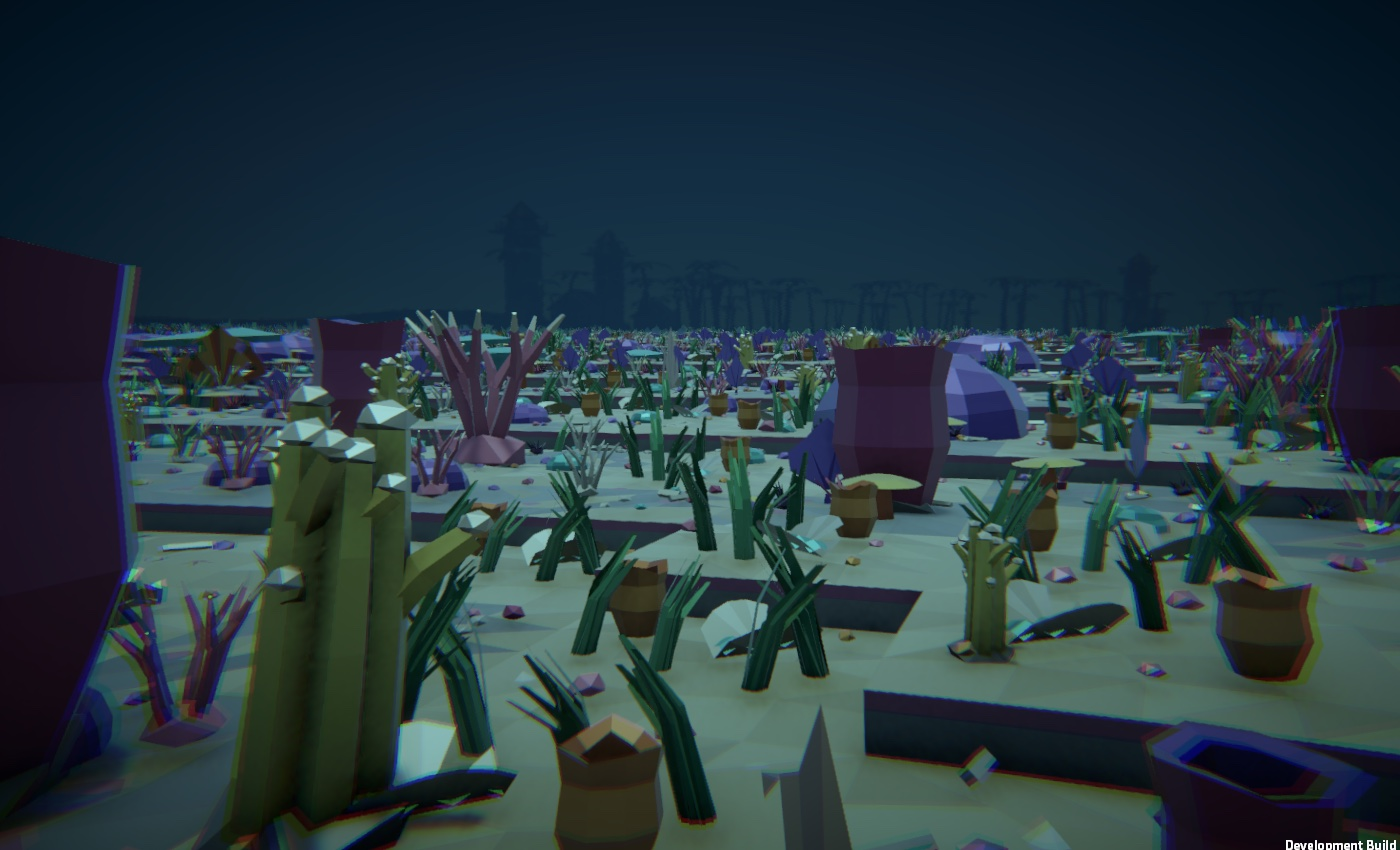
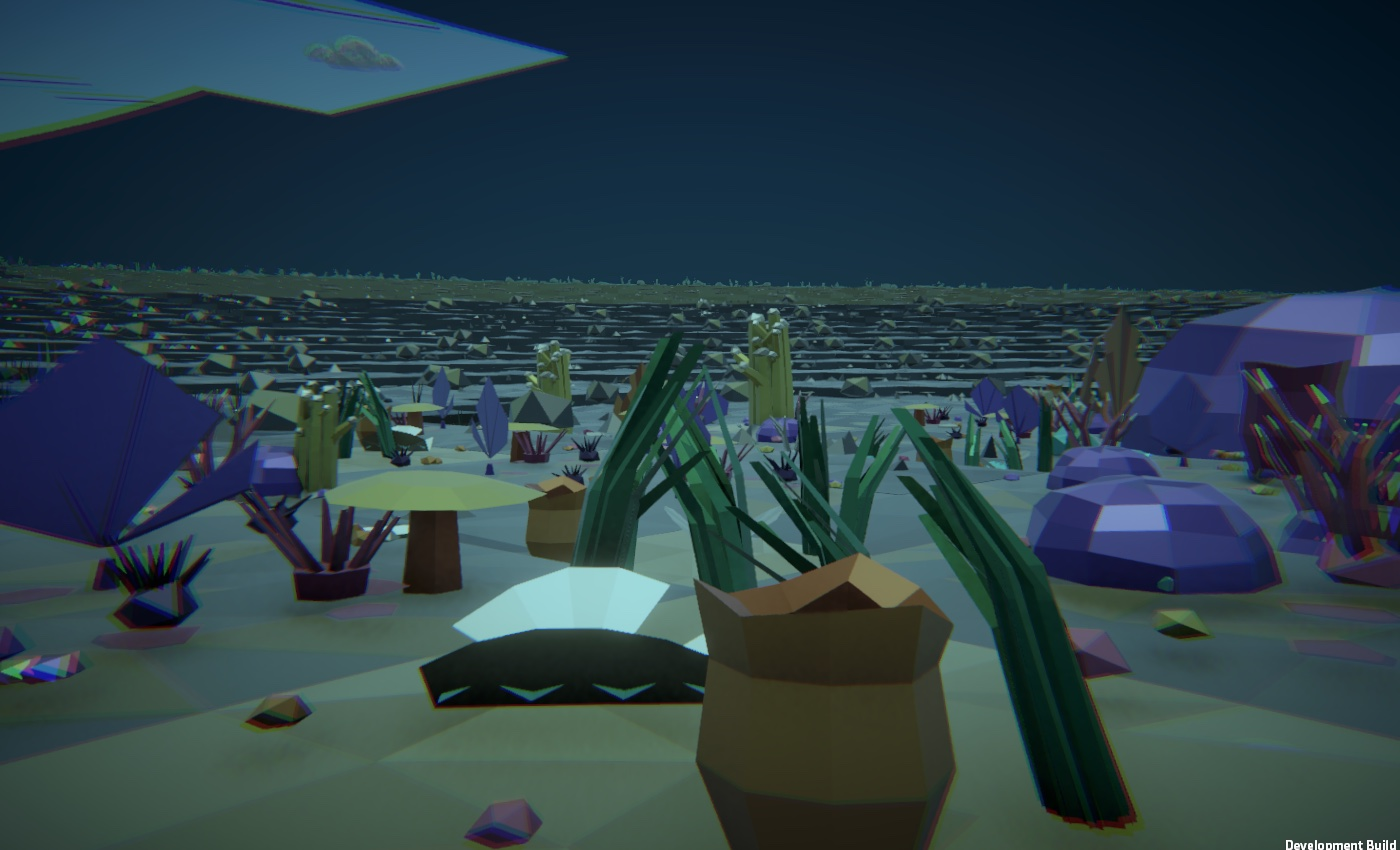
Reefs go out into deeper water, and the sea gets a floor

diff --git a/Assets/Scripts/World/Regions.cs b/Assets/Scripts/World/Regions.cs
@@ -207,7 +207,7 @@ public static class Regions
         int span = ChunksAcross * WorldGrid.TilesPerChunk;
 
         float relief = 0f;
-        int wet = 0, snowy = 0, samples = 0;
+        int wet = 0, snowy = 0, deep = 0, samples = 0;
 
         for (int x = 0; x < span; x += 12)
         for (int z = 0; z < span; z += 12)
@@ -218,6 +218,7 @@ public static class Regions
             relief += WorldHeight.HeightAt(tileX, tileZ, worldSeed) / WorldHeight.MaxRelief;
 
             if (WaterSurface.IsUnderwater(tileX, tileZ, worldSeed)) wet++;
+            if (WaterSurface.Level - WorldHeight.SurfaceY(tileX, tileZ, worldSeed) >= Chunk.ReefDepth) deep++;
             if (SnowCover.SnowByHeight(tileX, tileZ, worldSeed)) snowy++;
 
             samples++;
@@ -226,6 +227,7 @@ public static class Regions
         relief /= Mathf.Max(1, samples);
 
         float wetShare = wet / (float)Mathf.Max(1, samples);
+        float deepShare = deep / (float)Mathf.Max(1, samples);
         float snowShare = snowy / (float)Mathf.Max(1, samples);
 
         // Ordered by how much a feature dominates the impression of a place:
@@ -233,12 +235,16 @@ public static class Regions
         // Water names were going to nearly a quarter of regions when only
         // about a twentieth of the ground is actually under water, so a region
         // has to be properly wet before it is named for it.
-        // A reef is warm shallow sea, so it is asked of the wettest regions
-        // before they are named for their water: low ground, no snow near it,
-        // and only one in four, since a coast of nothing but coral is a coast
-        // with nothing to find.
+        // A reef is asked of the wettest regions before they are named for
+        // their water. It wants low warm ground with no snow near it, and it
+        // wants water with a middle to it: a reef needs somewhere the coral can
+        // stand without standing out of the top of the sea, so a region whose
+        // water is all shin-deep is left as plain water. One in five of those
+        // that qualify, since a coast of nothing but coral is a coast with
+        // nothing to find.
         if (wetShare > 0.22f)
-            return relief < 0.30f && snowShare <= 0f && Hash(cell.x, cell.y, worldSeed + 5309) % 4 == 0
+            return relief < 0.30f && snowShare <= 0f && deepShare > 0.10f
+                && Hash(cell.x, cell.y, worldSeed + 5309) % 5 == 0
                  ? Character.Reef : Character.Water;
         if (snowShare > 0.16f) return Character.Peaks;
 

diff --git a/Assets/Scripts/World/WorldHeight.cs b/Assets/Scripts/World/WorldHeight.cs
@@ -50,6 +50,22 @@ public static class WorldHeight
     private const float HillScale = 0.011f;
     private const float HillAmplitude = 10.0f;
 
+    /// <summary>
+    /// How far the sea floor is pulled below where the land would have put it,
+    /// at the middle of a basin. Without this the water is a film: the ground
+    /// stops at the base plane, the surface is four and a half above it, and
+    /// half of everything under water is less than a metre deep -- so anything
+    /// standing on the bottom stands out of the top of it.
+    ///
+    /// The pull is nought at the waterline and greatest where the land was
+    /// lowest, so no coast moves and no dry ground changes at all: it is only
+    /// the bottom of the sea that drops away.
+    /// </summary>
+    private const float SeaFloorDrop = 2.0f;
+
+    /// <summary>The height the land is at when the water's edge is there.</summary>
+    public const float ShoreHeight = 4.5f;
+
     /// <summary>Terrain height above the base plane, in world units.</summary>
     public static float HeightAt(int tileX, int tileZ, int worldSeed)
     {
@@ -64,13 +80,22 @@ public static class WorldHeight
         float ridges = RidgedFbm(tileX * RidgeScale, tileZ * RidgeScale, o + 91f, 4);
         float hills = Fbm(tileX * HillScale, tileZ * HillScale, o + 311f, 2);
 
-        return mountainMask * ridges * MaxRelief + hills * HillAmplitude;
+        float ground = mountainMask * ridges * MaxRelief + hills * HillAmplitude;
+
+        if (ground >= ShoreHeight) return ground;
+
+        // Smoothed at both ends, so the slope into the deep does not jump at
+        // the shoreline and the floor of the basin comes out flat.
+        float under = Mathf.SmoothStep(0f, 1f, Mathf.InverseLerp(ShoreHeight, 0f, ground));
+
+        return ground - under * SeaFloorDrop;
     }
 
     /// <summary>The terrace a tile sits on.</summary>
     public static int TerraceAt(int tileX, int tileZ, int worldSeed)
     {
-        return Mathf.Max(0, Mathf.FloorToInt(HeightAt(tileX, tileZ, worldSeed) / StepHeight));
+        // No floor under it any more: the sea bed goes below the base plane.
+        return Mathf.FloorToInt(HeightAt(tileX, tileZ, worldSeed) / StepHeight);
     }
 
     /// <summary>World Y of a tile's walking surface.</summary>

diff --git a/Assets/Scripts/World/Chunk.cs b/Assets/Scripts/World/Chunk.cs
@@ -45,6 +45,13 @@ public class Chunk
     /// <summary>Depth past which a lake bed is rock rather than sand.</summary>
     private const float DeepWater = 1.6f;
 
+    /// <summary>
+    /// How much water a reef wants over it. Under this the floor is left sand:
+    /// the wash bares anything shallower than about two thirds of a metre, and
+    /// coral standing in less than this comes out of the top of the water.
+    /// </summary>
+    public const float ReefDepth = 1.0f;
+
     /// <summary>And how far above the water the sand carries on up the shore.</summary>
     private const float BeachHeight = 0.7f;
     private const float BlendNoiseScale = 0.09f;
@@ -152,7 +159,7 @@ public class Chunk
                 // coral in ankle-deep water reads as a flooded field.
                 category = underSnow ? StoneCategory
                          : body != WaterSurface.Body.Beach ? MarshCategory
-                         : character == Regions.Character.Reef ? ReefCategory
+                         : character == Regions.Character.Reef && underBy >= ReefDepth ? ReefCategory
                          : underBy >= DeepWater ? StoneCategory
                          : BeachCategory;
             }

diff --git a/Assets/Scripts/World/Undergrowth.cs b/Assets/Scripts/World/Undergrowth.cs
@@ -318,7 +318,7 @@ public class Undergrowth : MonoBehaviour
                 // how deep the water is and never allowed to reach the top of
                 // it: coral standing proud of the sea would read as a rock.
                 if (character == Regions.Character.Reef && flora.Corals != null && flora.Corals.Length > 0
-                    && WaterSurface.BodyAt(gx, gz, seed) == WaterSurface.Body.Beach)
+                    && deep >= Chunk.ReefDepth && WaterSurface.BodyAt(gx, gz, seed) == WaterSurface.Body.Beach)
                 {
                     if (Hash(gx, gz, seed + 7717) % 100 >= 22) continue;
 

diff --git a/docs/HANDBOOK.md b/docs/HANDBOOK.md
@@ -834,7 +834,9 @@ so the assets keep their GUIDs and the library's list needs no editing.
 
 A reef is not a country of its own so much as a stretch of sea that happens to
 be coral, so `Regions.Character.Reef` is a wet region caught before it is named
-for its water: `wetShare > 0.22`, low ground, no snow, one in four. Everything
+for its water: `wetShare > 0.22`, low ground, no snow, one in five -- and
+`deepShare > 0.10`, meaning a tenth of it is a metre or more under, so a reef
+never lands on a lagoon it cannot fit in. Everything
 the sea does has to know about it, which is what `Regions.Sea(character)` is
 for -- the body of water itself (`WaterSurface.BodyAt`, which without this
 reads a reef as an inland lake), the wash, the gulls, the sand prints, the
@@ -842,13 +844,49 @@ palms on the strand, the wreck and the lighthouse. `Chunk` asks for the reef
 *before* it asks how deep the water is, or the coral would only get the sandy
 fringe and stand in water up to your shins.
 
+Reef floor is only laid where there is `Chunk.ReefDepth` (a metre) of water
+over it; under that the floor is left sand. This is the rule that matters, and
+it was got wrong first time round. Laid at any depth, reef tiles landed on
+ground with a hand's width of water over it: their own detail stands up to 0.6
+above the block, so half of every tile was out in the air, and the wash --
+which bares anything under about two thirds of a metre within five tiles of
+sand -- left coral sitting on a dry beach twice a minute. A metre clears both.
+Measured over five seeds: of 11201 reef floor tiles, none is in water the wash
+can bare.
+
 The coral is planted by `Undergrowth`, in the underwater branch, not from a
 country's table: it goes through `Take` only so it lands in `every` and gets
-drawn. It is capped at the depth (`deep - 0.4`), which is what keeps it under
-the surface. `Tools/probe/Reef.cs.txt` walks its own way to a reef, since the
+drawn. It wants the same metre of water the floor does, and is then capped at
+the depth (`deep - 0.4`), which is what keeps it under the surface. `Tools/probe/Reef.cs.txt` walks its own way to a reef, since the
 dev tools only look thirty chunks for a country and a reef can be further:
-seed 5, the Deep Banks, 92% of nine chunks the reef floor, 1092 colonies, the
-nearest 0.41 m under the surface, 2.9 ms.
+seed 5, the Withered Ledges, 20% of nine chunks the reef floor with the rest
+its sand and its land, 652 colonies, the nearest 0.41 m under the surface,
+2.8 ms.
+
+### The sea floor
+
+The ground used to stop at the base plane. `TerraceAt` clamped its terrace at
+nought, the water sits four and a half above it, and that was the whole depth
+the world could hold: half of everything under water was less than a metre
+deep, and a sea was a film over a flat pan. That is no floor to put anything on.
+
+`WorldHeight.HeightAt` now pulls the ground down below the waterline, by
+`SeaFloorDrop` (two metres) at its lowest, smoothed in from `ShoreHeight` --
+which is 4.5, the height the land is at where the water's edge falls, given the
+terrace arithmetic. The pull is nought at that height and nothing above it is
+touched at all, so **no coast moves and no dry ground changes**: only the
+bottom of the sea drops away. The clamp in `TerraceAt` had to go with it, since
+a sea bed is now a negative terrace.
+
+`Tools/probe/Depth.cs.txt` measures this without entering a world, since the
+terrain, the water and the regions are all static functions of a seed. Over
+five seeds and 2.4 million tiles, water deeper than 2.5 m went from 4% of the
+sea to 14%, and the 0 to 0.5 m band barely moved, 19% to 18%. The number that
+had to be watched is the step between neighbouring tiles, which must stay under
+the depth of a tile's body or a raised tile shows daylight beneath it: the
+steepest step touching water is 0.75 m, so the deepening added no steep ground
+anywhere. (The steepest step in the world is 2.00 m, on dry land, and has
+always been; a tile body is 2.05 deep, so it is inside the limit by 5 cm.)
 
 ## Underfoot
 

diff --git a/README.md b/README.md
@@ -43,13 +43,13 @@ The world is split into regions about 240m across. Each one gets a character bas
 
 ### Water
 
-Water sits at one level across the whole world, and what kind of water it is depends on where you are. In a Water region it's open water with a beach: sand in the shallows, rock deeper down, and a strip of sand above the waterline. Everywhere else it's a lake or a pond (the difference is depth) with a mud bottom and reeds along the edges. In a snowfield the lakes are frozen with a stone bed. Lakes are deep enough to swim in. Walk in and you float, the view goes green and the fog closes in while you're under.
+Water sits at one level across the whole world, and what kind of water it is depends on where you are. The bottom falls away from the shore, so a sea has a middle to it and gets to about six metres deep. In a Water region it's open water with a beach: sand in the shallows, rock deeper down, and a strip of sand above the waterline. Everywhere else it's a lake or a pond (the difference is depth) with a mud bottom and reeds along the edges. In a snowfield the lakes are frozen with a stone bed. Lakes are deep enough to swim in. Walk in and you float, the view goes green and the fog closes in while you're under.
 
 ![A beach, the sea running up the sand](docs/images/beach.jpg)
 
 *A beach. The sea runs up the sand and back, over and over.*
 
-Some of the warmest, lowest stretches of sea are reef. The floor of one is coral instead of sand: heads, tables, fans, sponges and pillars standing up out of it, seagrass, urchins and old white rubble, with sand channels blown between. It has a beach and a wash like any other coast, and the coral stops short of the surface, so you find it by looking down into the water or by wading in.
+Some of the warmest, lowest stretches of sea are reef. Out where the water is over a metre deep the floor is coral instead of sand: heads, tables, fans, sponges and pillars standing up off it, seagrass, urchins and old white rubble, with sand channels blown between. The shallows over it stay sand, so a reef has an ordinary beach and an ordinary wash, and the coral keeps under the surface. You find one by looking down into the water on your way past, or by swimming out over it.
 
 ![A reef seen from the shore](docs/images/reef.jpg)
 
